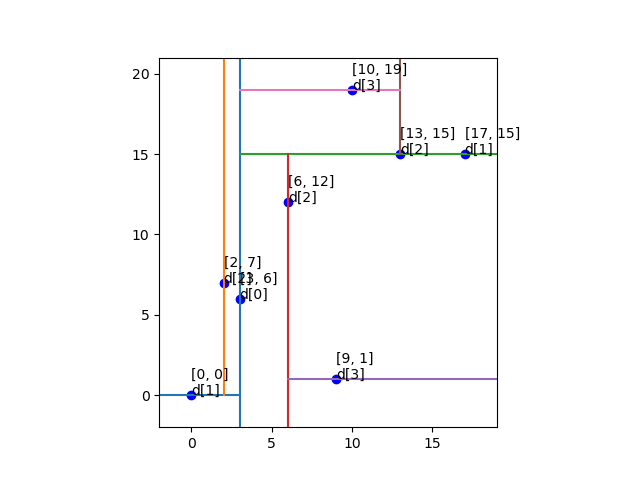
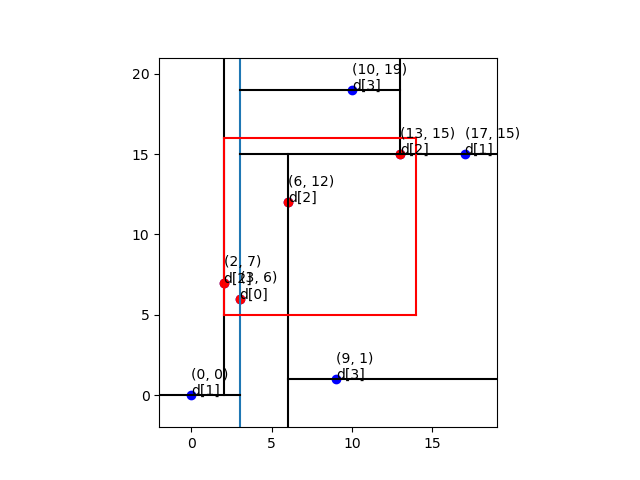
add regional search

diff --git a/src/plot.py b/src/plot.py
@@ -1,34 +1,33 @@
+from matplotlib.axes import Axes
 import matplotlib.pyplot as plt
 from kd_tree import KDTree, Node
-import copy
+
+from point import Point
+from region import Region
 
 maxInfinity = 1e10
 minInfinity = -1e10
 
 
-def plotKDTree(tree: KDTree, points):
-    maxPoint = [minInfinity, minInfinity]
-    minPoint = [maxInfinity, maxInfinity]
+def plotKDTree(ax: Axes, tree: KDTree, points: list[Point]):
+    maxPoint: Point = (minInfinity, minInfinity)
+    minPoint: Point = (maxInfinity, maxInfinity)
     for point in points:
-        maxPoint[0] = max(maxPoint[0], point[0])
-        maxPoint[1] = max(maxPoint[1], point[1])
-        minPoint[0] = min(minPoint[0], point[0])
-        minPoint[1] = min(minPoint[1], point[1])
+        maxPoint = (max(maxPoint[0], point[0]), max(maxPoint[1], point[1]))
+        minPoint = (min(minPoint[0], point[0]), min(minPoint[1], point[1]))
 
-    maxPoint[0] += 2
-    maxPoint[1] += 2
-    minPoint[0] -= 2
-    minPoint[1] -= 2
+    maxPoint = (maxPoint[0] + 2, maxPoint[1] + 2)
+    minPoint = (minPoint[0] - 2, minPoint[1] - 2)
 
-    fig, ax = plt.subplots()
-    ax.set_xlim([minPoint[0], maxPoint[0]])
-    ax.set_ylim([minPoint[1], maxPoint[1]])
-    __plotKDtreeHelper(tree, ax, tree.root, None, 0, [minPoint, maxPoint])
+    ax.set_xlim((minPoint[0], maxPoint[0]))
+    ax.set_ylim((minPoint[1], maxPoint[1]))
+    __plotKDtreeHelper(tree, ax, tree.root, None, 0, (minPoint, maxPoint))
     ax.set_aspect("equal", "box")
-    plt.show()
 
 
-def __plotKDtreeHelper(tree: KDTree, ax, node: Node, parent: Node, depth: int, bounds):
+def __plotKDtreeHelper(
+    tree: KDTree, ax: Axes, node: Node, parent: Node, depth: int, boundaries: Region
+):
     if not node:
         return
 
@@ -41,7 +40,7 @@ def __plotKDtreeHelper(tree: KDTree, ax, node: Node, parent: Node, depth: int, b
     dimesion = depth % tree.k
 
     x, y = node.point
-    minPoint, maxPoint = bounds
+    minPoint, maxPoint = boundaries
 
     if not parent:
         if dimesion == 0:
@@ -51,14 +50,14 @@ def __plotKDtreeHelper(tree: KDTree, ax, node: Node, parent: Node, depth: int, b
     else:
         if dimesion == 0:
             if y >= parent.point[1]:
-                ax.plot([x, x], [parent.point[1], maxPoint[1]])
+                ax.plot([x, x], [parent.point[1], maxPoint[1]], color="black")
             else:
-                ax.plot([x, x], [parent.point[1], minPoint[1]])
+                ax.plot([x, x], [parent.point[1], minPoint[1]], color="black")
         else:
             if x >= parent.point[0]:
-                ax.plot([parent.point[0], maxPoint[0]], [y, y])
+                ax.plot([parent.point[0], maxPoint[0]], [y, y], color="black")
             else:
-                ax.plot([parent.point[0], minPoint[0]], [y, y])
+                ax.plot([parent.point[0], minPoint[0]], [y, y], color="black")
 
     __plotKDtreeHelper(
         tree,
@@ -67,10 +66,10 @@ def __plotKDtreeHelper(tree: KDTree, ax, node: Node, parent: Node, depth: int, b
         node,
         depth + 1,
         [
-            bounds[0],
+            boundaries[0],
             [
-                x if dimesion == 0 else bounds[1][0],
-                y if dimesion == 1 else bounds[1][1],
+                x if dimesion == 0 else boundaries[1][0],
+                y if dimesion == 1 else boundaries[1][1],
             ],
         ],
     )
@@ -82,9 +81,20 @@ def __plotKDtreeHelper(tree: KDTree, ax, node: Node, parent: Node, depth: int, b
         depth + 1,
         [
             [
-                x if dimesion == 0 else bounds[0][0],
-                y if dimesion == 1 else bounds[0][1],
+                x if dimesion == 0 else boundaries[0][0],
+                y if dimesion == 1 else boundaries[0][1],
             ],
-            bounds[1],
+            boundaries[1],
         ],
     )
+
+
+def plotRegionResult(ax: Axes, queryRegion: Region, regionResult: list[Point]):
+    pointMin, pointMax = queryRegion
+    ax.plot([pointMin[0], pointMin[0]], [pointMin[1], pointMax[1]], color="red")
+    ax.plot([pointMax[0], pointMax[0]], [pointMin[1], pointMax[1]], color="red")
+    ax.plot([pointMin[0], pointMax[0]], [pointMin[1], pointMin[1]], color="red")
+    ax.plot([pointMin[0], pointMax[0]], [pointMax[1], pointMax[1]], color="red")
+
+    for point in regionResult:
+        ax.scatter(*point, color="red")

diff --git a/src/kd_tree.py b/src/kd_tree.py
@@ -1,4 +1,8 @@
 from point import Point
+from region import Region, hasOverlap, isPointInside
+
+maxInfinity = 1e10
+minInfinity = -1e10
 
 
 class Node:
@@ -9,15 +13,15 @@ class Node:
 
 
 class KDTree:
-    def __init__(self, k: int = 2, points=None):
-        self.k = k
+    def __init__(self, points=None):
+        self.k = 2  # dimensions
         self.root = None
 
         if points:
             for point in points:
                 self.insert(point)
 
-    # insert
+    # insert point
 
     def insert(self, point):
         self.root = self.__insertHelper(self.root, point, 0)
@@ -35,9 +39,9 @@ class KDTree:
 
         return node
 
-    # search
+    # search point
 
-    def search(self, point):
+    def search(self, point: Point):
         return self.__searchHelper(self.root, point, 0)
 
     def __searchHelper(self, node: Node, point, depth: int):
@@ -52,3 +56,57 @@ class KDTree:
             return self.__searchHelper(node.left, point, depth + 1)
 
         return self.__searchHelper(node.right, point, depth + 1)
+
+    # query over region
+
+    def regionQuery(self, searchRegion: Region) -> list[Point]:
+        return self.__regionQueryHelper(
+            self.root,
+            searchRegion,
+            0,
+            ((minInfinity, minInfinity), (maxInfinity, maxInfinity)),
+        )
+
+    def __regionQueryHelper(
+        self, node: Node, region: Region, depth: int, boundaries: Region
+    ) -> list[Point]:
+        result = []
+
+        if not node or not hasOverlap(region, boundaries):
+            return result
+
+        point = node.point
+
+        if isPointInside(point, region):
+            result.append(point)
+
+        dimesion = depth % self.k
+        x, y = point
+
+        leftResult = self.__regionQueryHelper(
+            node.left,
+            region,
+            depth + 1,
+            [
+                boundaries[0],
+                [
+                    x if dimesion == 0 else boundaries[1][0],
+                    y if dimesion == 1 else boundaries[1][1],
+                ],
+            ],
+        )
+
+        rigthResult = self.__regionQueryHelper(
+            node.right,
+            region,
+            depth + 1,
+            [
+                [
+                    x if dimesion == 0 else boundaries[0][0],
+                    y if dimesion == 1 else boundaries[0][1],
+                ],
+                boundaries[1],
+            ],
+        )
+
+        return result + leftResult + rigthResult

diff --git a/src/main.py b/src/main.py
@@ -1,9 +1,22 @@
 from kd_tree import KDTree
-from plot import plotKDTree
+from plot import plotKDTree, plotRegionResult
+from point import Point
+import matplotlib.pyplot as plt
 
-points = [[3, 6], [17, 15], [13, 15], [0, 0], [6, 12], [9, 1], [2, 7], [10, 19]]
+from region import Region
 
-tree = KDTree(2, points)
+points: list[Point] = [
+    (3, 6),
+    (17, 15),
+    (13, 15),
+    (0, 0),
+    (6, 12),
+    (9, 1),
+    (2, 7),
+    (10, 19),
+]
+
+tree = KDTree(points)
 
 
 def testSearch(point):
@@ -13,7 +26,13 @@ def testSearch(point):
         print("Not Found")
 
 
-testSearch([10, 19])
-testSearch([12, 19])
+testSearch((10, 19))
+testSearch((12, 19))
 
-plotKDTree(tree, points)
+queryRegion: Region = ((2, 5), (14, 16))
+regionResult = tree.regionQuery(queryRegion)
+
+fig, ax = plt.subplots()
+plotKDTree(ax, tree, points)
+plotRegionResult(ax, queryRegion, regionResult)
+plt.show()

diff --git a/src/region.py b/src/region.py
@@ -1,0 +1,27 @@
+from point import Point
+
+Region = tuple[Point, Point]
+
+
+def hasOverlap(region1: Region, region2: Region) -> bool:
+    # Extract the boundaries of each region
+    (minX1, minY1), (maxX1, maxY1) = region1
+    (minX2, minY2), (maxX2, maxY2) = region2
+
+    # Check for overlap by comparing the boundaries
+    if maxX1 < minX2 or maxX2 < minX1 or maxY1 < minY2 or maxY2 < minY1:
+        return False
+    else:
+        return True
+
+
+def isPointInside(point: Point, region: Region) -> bool:
+    x, y = point
+    # Extract the boundaries of the region
+    (minX, minY), (maxX, maxY) = region
+
+    # Check if the point is inside the region
+    if minX <= x <= maxX and minY <= y <= maxY:
+        return True
+    else:
+        return False

diff --git a/src/point.py b/src/point.py
@@ -1,3 +1,6 @@
+Point = (int, int)
+
+
 class Point:
     @staticmethod
     def isEqual(point_a, point_b):
